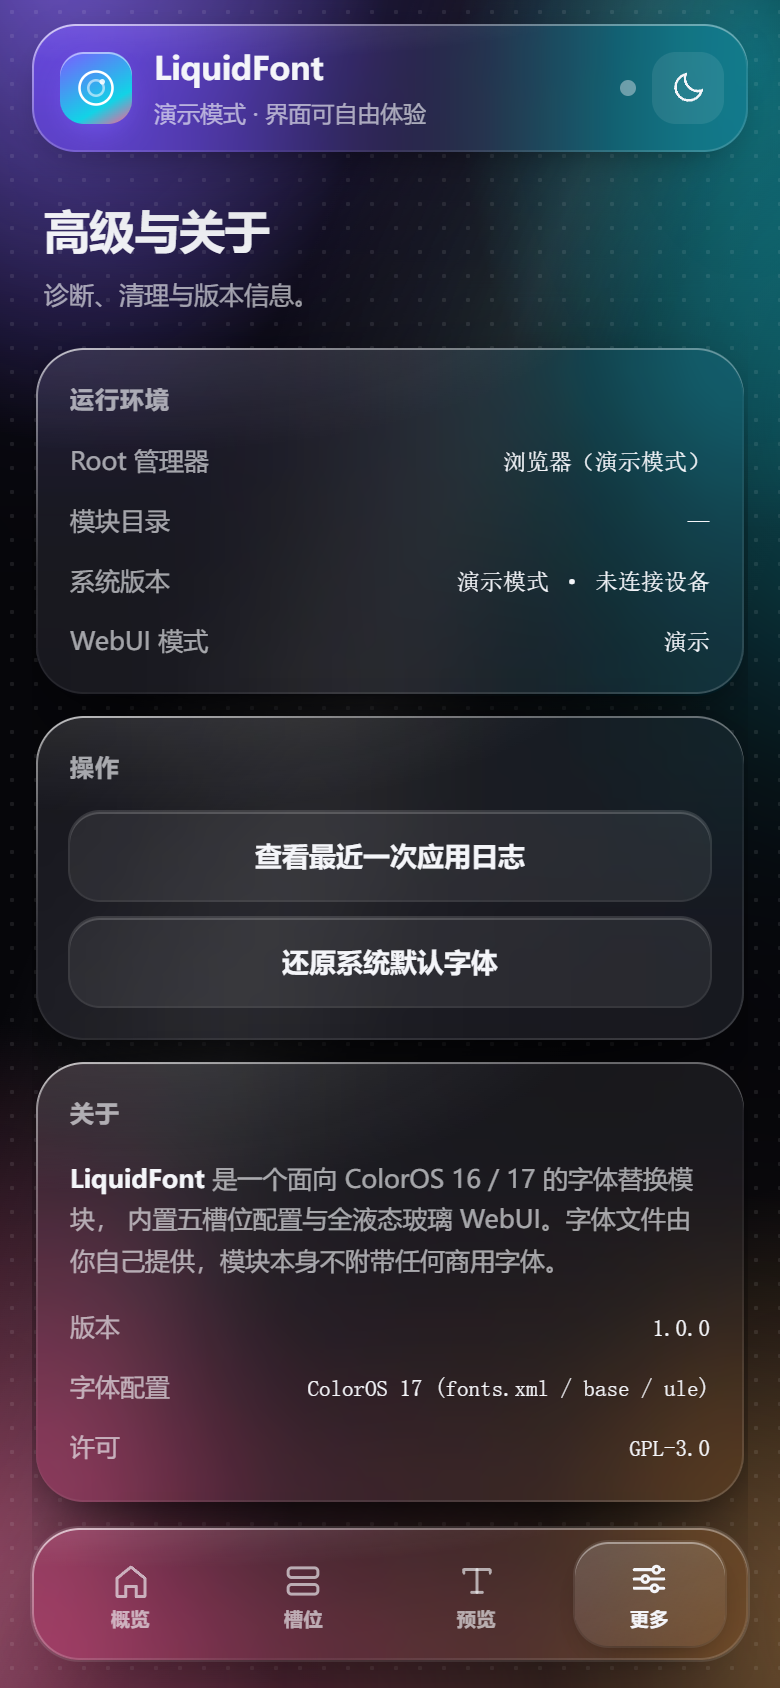
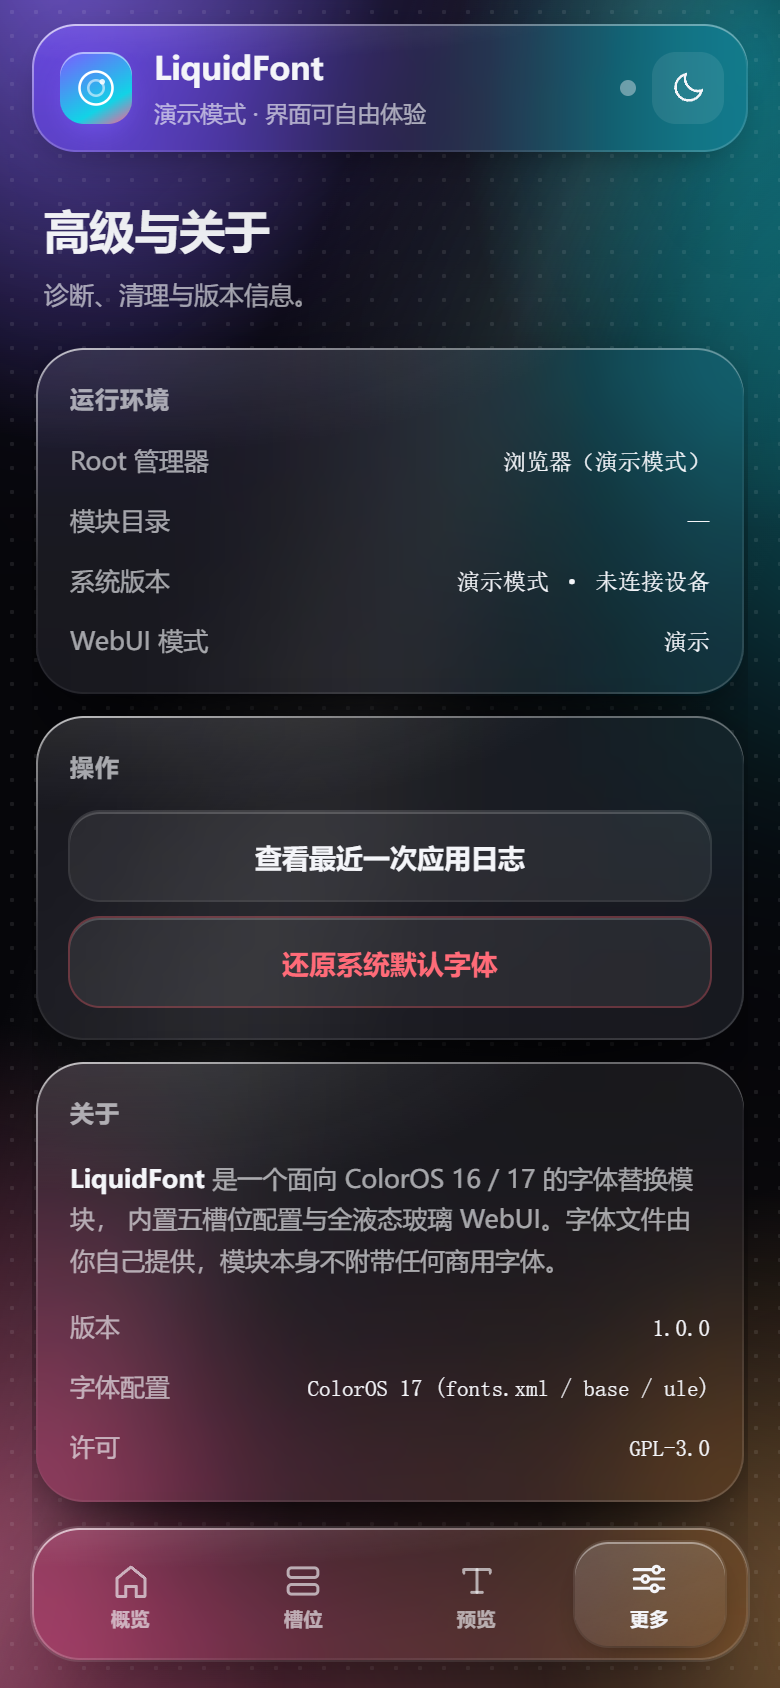
fix(webui): 还原按钮改用危险样式；打包时给脚本可执行位

Changed region(s): [[0.3077, 0.4929, 0.6769, 0.5237], [0.3385, 0.5545, 0.6462, 0.5853]]

diff --git a/webroot/assets/style.css b/webroot/assets/style.css
@@ -433,7 +433,12 @@ html[data-theme="light"] .hero-title em {
   box-shadow: inset 0 1px 0 rgba(255, 255, 255, .18), 0 0 0 1px var(--stroke);
   color: var(--text);
 }
-.btn.danger { color: #ff6b78; }
+.btn.danger {
+  color: #ff6b78;
+  box-shadow: inset 0 1px 0 rgba(255, 255, 255, .18), 0 0 0 1px rgba(255, 107, 120, .34);
+}
+.btn.danger:active { background: rgba(255, 107, 120, .14); }
+html[data-theme="light"] .btn.danger { color: #d92b45; }
 
 /* 数据条 */
 .stat-row {

diff --git a/webroot/index.html b/webroot/index.html
@@ -163,7 +163,7 @@ Liquid Glass 0123456789
         <h3 class="card-title">操作</h3>
         <div class="stack">
           <button class="btn ghost wide" id="log-btn">查看最近一次应用日志</button>
-          <button class="btn ghost wide" id="restore-btn">还原系统默认字体</button>
+          <button class="btn ghost danger wide" id="restore-btn">还原系统默认字体</button>
         </div>
       </div>
 

diff --git a/build.py b/build.py
@@ -95,7 +95,9 @@ def build() -> Path:
         for path, arc in files:
             info = zipfile.ZipInfo.from_file(path, arc)
             info.compress_type = zipfile.ZIP_DEFLATED
-            info.external_attr = 0o100644 << 16
+            # 脚本给可执行位，其余 0644
+            exe = arc.endswith(".sh") or arc.endswith("update-binary")
+            info.external_attr = (0o100755 if exe else 0o100644) << 16
             z.writestr(info, path.read_bytes())
 
     return out
